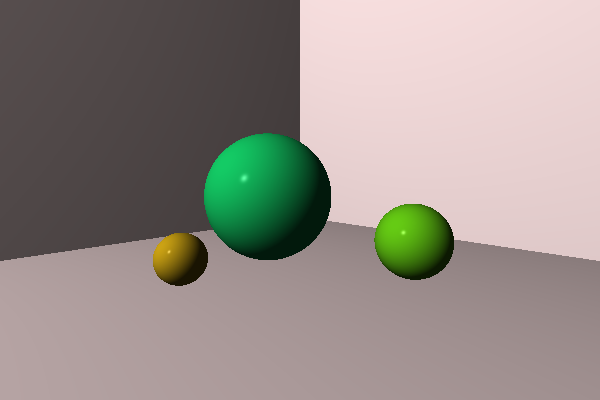
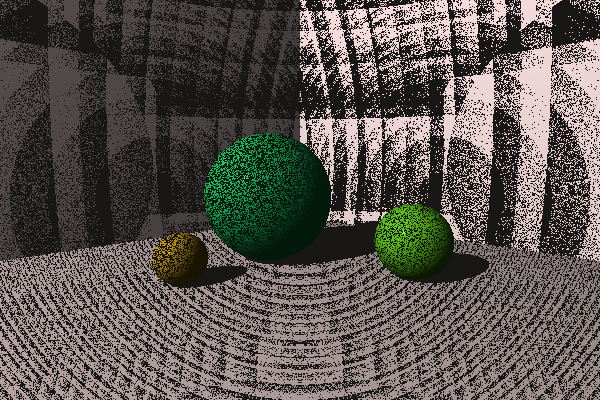
Chapter 8: Shadows - working but with surface bug

diff --git a/ray_tracer/src/lighting/mod.rs b/ray_tracer/src/lighting/mod.rs
@@ -6,8 +6,8 @@ use math::tuple::point::Point;
 use math::tuple::vector::normal::Normal;
 
 pub struct PointLight {
-    position: Point,
-    color: Color,
+    pub position: Point,
+    pub color: Color,
 }
 
 impl PointLight {
@@ -23,15 +23,25 @@ pub struct Material {
     pub diffuse: f32,
     pub specular: f32,
     pub shininess: f32,
+    pub shadow_boost: f32,
 }
 
 impl Material {
-    pub fn light(&self, light: &PointLight, point: Point, eye: Normal, normal: Normal) -> Color {
+    pub fn light(
+        &self,
+        light: &PointLight,
+        point: Point,
+        eye: Normal,
+        normal: Normal,
+        shadow_factor: f32,
+    ) -> Color {
         // Combine surface and light color
         let effective_color = self.color * light.color;
 
         // find direction to light source
         let light_v = (light.position - point).normalize();
+
+        let anti_shadow = (1. + self.shadow_boost - shadow_factor.clamp(0.0, 1.0)).clamp(0.0, 1.0);
 
         // find ambient contribution
         let ambient = effective_color * self.ambient;
@@ -42,13 +52,13 @@ impl Material {
         let light_dot_normal = light_v.dot(&normal);
         if light_dot_normal >= 0.0 {
             let diffuse = effective_color * self.diffuse * light_dot_normal;
-            result = result + diffuse;
+            result = result + diffuse * anti_shadow;
 
             let reflect_v = -light_v.reflect(normal.clone_vector());
             let reflect_dot_eye = reflect_v.dot(&eye);
             if reflect_dot_eye > 0.0 {
                 // compute the specular contribution
-                let factor = reflect_dot_eye.powf(self.shininess);
+                let factor = reflect_dot_eye.powf(self.shininess) * anti_shadow;
                 let specular = light.color * self.specular * factor;
                 result = result + specular;
             }
@@ -67,6 +77,7 @@ impl Material {
             diffuse: 0.9,
             specular: 0.9,
             shininess: 200.0,
+            shadow_boost: 0.,
         }
     }
 }
@@ -86,7 +97,7 @@ mod lighting_tests {
         let material = Material::default();
         assert_eq!(
             color!(1.9, 1.9, 1.9),
-            material.light(&light, point, eye, normal)
+            material.light(&light, point, eye, normal, 0.)
         );
     }
 
@@ -99,7 +110,7 @@ mod lighting_tests {
         let material = Material::default();
         assert_eq!(
             color!(1.0, 1.0, 1.0),
-            material.light(&light, point, eye, normal)
+            material.light(&light, point, eye, normal, 0.)
         );
     }
 
@@ -112,7 +123,7 @@ mod lighting_tests {
         let material = Material::default();
         assert_eq!(
             color!(0.7363961, 0.7363961, 0.7363961),
-            material.light(&light, point, eye, normal)
+            material.light(&light, point, eye, normal, 0.)
         );
     }
 
@@ -125,7 +136,7 @@ mod lighting_tests {
         let material = Material::default();
         assert_eq!(
             color!(1.636396, 1.636396, 1.636396),
-            material.light(&light, point, eye, normal)
+            material.light(&light, point, eye, normal, 0.)
         );
     }
 
@@ -138,7 +149,20 @@ mod lighting_tests {
         let material = Material::default();
         assert_eq!(
             color!(0.1, 0.1, 0.1),
-            material.light(&light, position, eye, normal)
+            material.light(&light, position, eye, normal, 0.)
+        );
+    }
+
+    #[test]
+    fn lighting_with_the_eye_between_the_light_and_the_surface_but_in_full_shadow() {
+        let point = Point::origin();
+        let eye = vector!(0, 0, -1).normalize();
+        let normal = vector!(0, 0, -1).normalize();
+        let light = PointLight::new(point!(0, 0, -10), color!(1., 1., 1.));
+        let material = Material::default();
+        assert_eq!(
+            color!(0.1, 0.1, 0.1),
+            material.light(&light, point, eye, normal, 1.)
         );
     }
 }

diff --git a/ray_tracer/src/world/shading.rs b/ray_tracer/src/world/shading.rs
@@ -10,11 +10,16 @@ use math::{color, point};
 
 impl World {
     pub fn shade(&self, pre_calculations: PreCalculations) -> Color {
+        let direct_lights = self.direct_lights(pre_calculations.point);
+        let light = &self.light.as_ref().unwrap();
+        // TODO, multilight support would light each in turn if they were direct.
+        let shadow_factor = if direct_lights.is_empty() { 1. } else { 0. };
         pre_calculations.sphere.material.light(
-            &self.light.as_ref().unwrap(),
+            light,
             pre_calculations.point,
             pre_calculations.eye,
             pre_calculations.normal,
+            shadow_factor,
         )
     }
 
@@ -38,9 +43,15 @@ pub fn default_world() -> World {
     material.color = color!(0.8, 1., 0.6);
     material.diffuse = 0.7;
     material.specular = 0.2;
+    // turn off shadows
+    material.shadow_boost = 1.;
     sphere.material = material;
     world.add(sphere);
-    world.add(Sphere::new_transformed(Matrix4x4::scale(0.5, 0.5, 0.5)));
+    let mut material = Material::default();
+    material.shadow_boost = 1.;
+    let mut sphere = Sphere::new_transformed(Matrix4x4::scale(0.5, 0.5, 0.5));
+    sphere.material = material;
+    world.add(sphere);
     world
 }
 
@@ -100,5 +111,25 @@ mod world_shading_tests {
         let ray = Ray::new(point!(0, 0, -5), vector!(0, 0, 1));
         let c = world.color_at(ray);
         assert_eq!(color!(0.38066125, 0.4758265, 0.28549594), c);
+    }
+}
+
+#[cfg(test)]
+mod world_shadow_shading_tests {
+    use super::*;
+    use crate::intersection::Intersection;
+    use math::vector;
+    #[test]
+    fn shade_when_given_intersection_in_shadow() {
+        let mut world = World::new();
+        world.light = Some(PointLight::new(point!(0, 0, -10), color!(1., 1., 1.)));
+        world.add(Sphere::new());
+        world.add(Sphere::new_transformed(Matrix4x4::translation(0., 0., 10.)));
+        let second = world.objects.get(1).unwrap();
+        let intersection = Intersection::new(4., &second);
+        let ray = Ray::new(point!(0, 0, 5), vector!(0, 0, 1));
+        let pre_calculations = intersection.to_pre_calculation(ray);
+        let color = world.shade(pre_calculations);
+        assert_eq!(color!(0.1, 0.1, 0.1), color);
     }
 }

diff --git a/ray_tracer/src/world/shadows.rs b/ray_tracer/src/world/shadows.rs
@@ -1,0 +1,65 @@
+use crate::intersection::Intersect;
+use crate::lighting::PointLight;
+use crate::ray;
+use crate::world::World;
+use math::tuple::point::Point;
+use std::ops::Deref;
+
+impl World {
+    /// Which lights are not occluded by objects in the scene
+    pub(crate) fn direct_lights(&self, point: Point) -> Vec<&PointLight> {
+        if let Some(l) = &self.light {
+            let intersections = self.intersect(ray!(point, l.position - point));
+            if let Some(hit) = intersections.hit() {
+                if hit.t < 1. { vec![] } else { vec![l] }
+            } else {
+                vec![l]
+            }
+        } else {
+            vec![]
+        }
+    }
+}
+
+#[cfg(test)]
+mod shadow_tests {
+    use super::*;
+    use crate::lighting::PointLight;
+    use crate::primatives::sphere::Sphere;
+    use crate::world::World;
+    use math::point;
+    use math::tuple::color::Color;
+
+    #[test]
+    fn there_is_no_shadow_when_nothing_is_collinear_with_point_and_light() {
+        let mut world = World::new();
+        let light = PointLight::new(point!(-10, 10, 0), Color::default());
+        world.set_light(light);
+        world.add(Sphere::new());
+        let point = point!(0, 10, 0);
+        let direct_lights = world.direct_lights(point);
+        assert_eq!(direct_lights.len(), 1);
+    }
+
+    #[test]
+    fn the_shadow_when_an_object_is_between_the_light_and_the_object() {
+        let mut world = World::new();
+        let light = PointLight::new(point!(-10, 10, 0), Color::default());
+        world.set_light(light);
+        world.add(Sphere::new());
+        let point = point!(5, -5, 0);
+        let direct_lights = world.direct_lights(point);
+        assert_eq!(direct_lights.len(), 0);
+    }
+
+    #[test]
+    fn no_shadow_when_point_is_colinear_but_beyond_the_light() {
+        let mut world = World::new();
+        let light = PointLight::new(point!(-10, 10, 0), Color::default());
+        world.set_light(light);
+        world.add(Sphere::new());
+        let point = point!(-11, 11, 0);
+        let direct_lights = world.direct_lights(point);
+        assert_eq!(direct_lights.len(), 1);
+    }
+}

diff --git a/ray_tracer/src/lighting/pre_calculations.rs b/ray_tracer/src/lighting/pre_calculations.rs
@@ -1,8 +1,10 @@
+use std::fmt::Pointer;
 use crate::intersection::Intersection;
 use crate::rays::Ray;
 use math::tuple::point::Point;
 use math::tuple::vector::normal::Normal;
 use std::ops::Deref;
+use crate::lighting::PointLight;
 
 pub struct PreCalculations<'s> {
     intersection: &'s Intersection<'s>,

diff --git a/ray_tracer/src/world/mod.rs b/ray_tracer/src/world/mod.rs
@@ -1,5 +1,6 @@
 pub mod render_world;
 pub mod shading;
+mod shadows;
 
 use crate::intersection::{Intersect, Intersections};
 use crate::lighting::PointLight;
